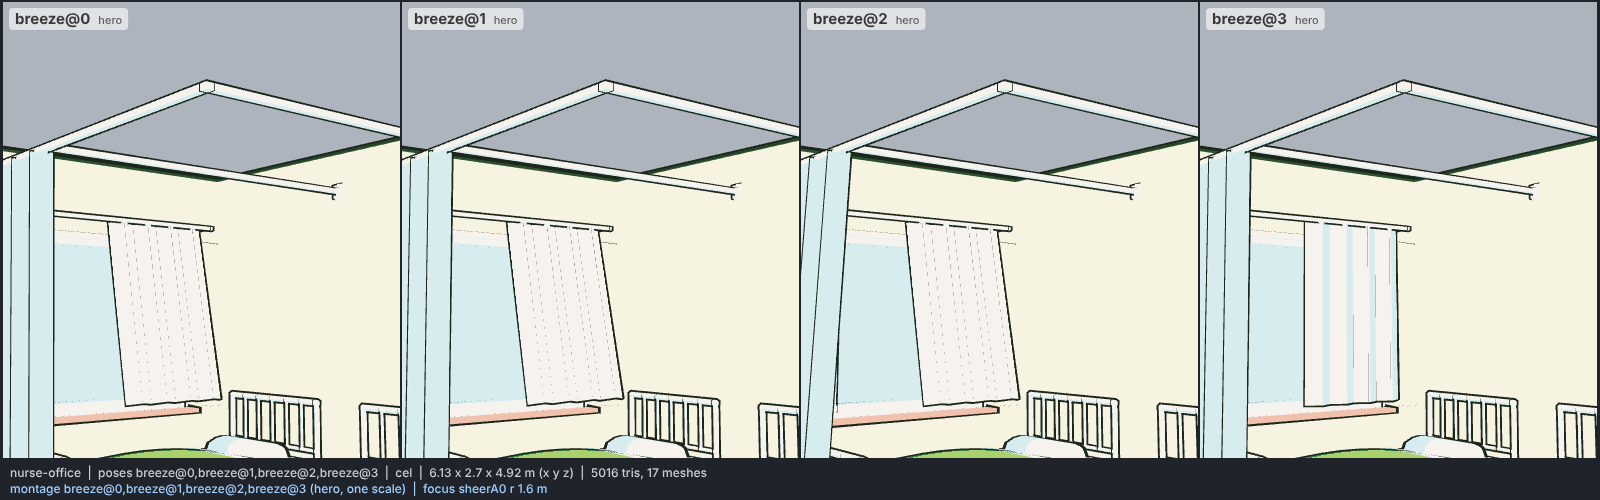
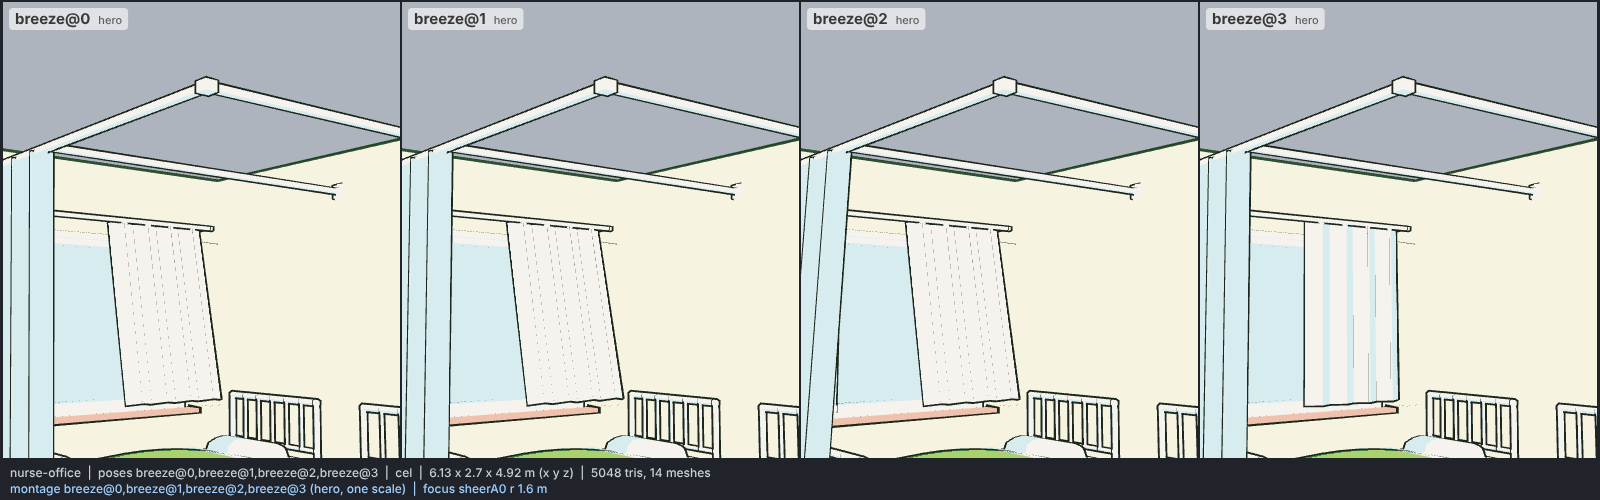
models: nurse-office, 14 meshes, vinyl tile floor, rail elbow
Sheets share steel's signature, glass glints share the grout, wall caps
merge with the dark lines: 14 meshes at defaults, 15 with both curtains
drawn. The floor becomes pale sky vinyl tiles with moon grout, and the
track gets an elbow block where the foot rail turns into the side rail.

Claude-Session: https://claude.ai/code/session_01RarBCdt4E1fNHHaUKaW5GL

diff --git a/models/nurse-office.js b/models/nurse-office.js
@@ -5,7 +5,7 @@
 // Construction (boxes, 4-6 sided rods, pleated lofts, lofted convex sections and flat quads, all triangle soups merged
 // per material; only the curtains are their own meshes, one per sway pivot). Every triangle is wound away from a point
 // inside its solid (box centre, rod axis, loft column, section centre), never by hand.
-//   SHELL     floor quad with lighter board seams; two walls 12 cm thick, the -X wall cut into sill wall, piers and lintel
+//   SHELL     floor quad of pale 0.4 m vinyl tiles with moon grout; two walls 12 cm thick, the -X wall cut into sill wall, piers and lintel
 //             round one window; dark skirting; dark 2 cm section caps on the cut wall tops, so the cut reads as a cut.
 //   WINDOW    (-X) aluminium casing, two sashes on two tracks, the room-side one slid open 0.4 m; glass is two unlined sky
 //             plates back to back. A sheer curtain on a wall-bracketed rail: one panel drawn over the open gap, one bunched.
@@ -34,11 +34,11 @@
 //   curtains sway on their rails, all harmonics of 4 s so it loops. Signs: the sheer pivots on its rail (axis z), +rz
 //   swings its hem into the room (+X); a foot-rail curtain (axis x) +rx swings its hem to -Z; a side-rail curtain (axis
 //   z) +rz swings its hem to +X. Rest is all zero.
-// Budget: ~5.0k triangles (5.3k with the curtains fully drawn), 17-18 meshes (13 material groups + one per curtain run).
-// Ink in pixels: walls, beds, furniture 3; rods, curtains, small props 2 (a room is seen small).
+// Budget: ~5.1k triangles (5.4k with the curtains fully drawn), 14-15 meshes (10 material groups + one per curtain run).
+// Ink in pixels: walls, wood, furniture 3; rods, sheets, curtains, small props 2 (a room is seen small).
 // Colours (meadow), base / shade:
 //   walls, cabinet and desk carcass  moon #f7f3e1 / skin #f0c2ae, threshold 0.1
-//   floor, wood (stadiometer, desk top, sill)  skin #f0c2ae flat / moon seams; wood skin / practical #f2c94c
+//   floor sky #d7ecef flat, grout and glass glints moon #f7f3e1; wood (stadiometer, desk top, sill) skin / practical #f2c94c
 //   steel (bed pipes, sashes, track, chair, scale, sink)  sclera #f6f3ee / sky #d7ecef
 //   sheets, pillows, eye chart, posters  sclera #f6f3ee / sky #d7ecef
 //   bed curtains and sheer  sky #d7ecef / sclera #f6f3ee (sheer sclera / sky), folds at threshold 0.45
@@ -52,7 +52,7 @@ export const meta = {
   script: "meadow",
   colors: {
     wall: "#f7f3e1", wallShade: "#f0c2ae",
-    floor: "#f0c2ae", seam: "#f7f3e1",
+    floor: "#d7ecef", seam: "#f7f3e1",
     wood: "#f0c2ae", woodShade: "#f2c94c",
     steel: "#f6f3ee", steelShade: "#d7ecef",
     sheet: "#f6f3ee", sheetShade: "#d7ecef",
@@ -201,9 +201,13 @@ export function build(THREE, kit, colors = meta.colors, opts = {}) {
   // ---------- the shell ----------
   const W = 3.0, L = 2.4, H = 2.7, T = 0.12, CAP = 0.02;
   quad("floor", [-W, 0, -L], [W, 0, -L], [W, 0, L], [-W, 0, L], [0, -1, 0]);
-  for (let i = 1; i < 16; i++) { // board seams across the room
-    const z = -L + (i * 2 * L) / 16;
+  for (let i = 1; i < 12; i++) { // 0.4 m vinyl tiles: grout lines both ways
+    const z = -L + i * 0.4;
     quad("seam", [-W, 0.0015, z - 0.006], [W, 0.0015, z - 0.006], [W, 0.0015, z + 0.006], [-W, 0.0015, z + 0.006], [0, -1, z]);
+  }
+  for (let i = 1; i < 15; i++) {
+    const x = -W + i * 0.4;
+    quad("seam", [x - 0.006, 0.0016, -L], [x + 0.006, 0.0016, -L], [x + 0.006, 0.0016, L], [x - 0.006, 0.0016, L], [x, -1, 0]);
   }
   const SILL = 0.85, HEAD = 2.15, WZ0 = -2.05, WZ1 = -0.35;
   const wx0 = -W - T, wx1 = -W;
@@ -295,6 +299,7 @@ export function build(THREE, kit, colors = meta.colors, opts = {}) {
   box("steel", SX - TW, SX + TW, TY, TY + TH, -L, FZ + TW); // side rail, back to the -Z wall
   box("steel", DX - TW, DX + TW, TY, TY + TH, -L, FZ - TW); // divider between the beds
   box("steel", -W, -W + 0.012, TY - 0.03, TY + TH + 0.03, FZ - 0.04, FZ + 0.04); // wall plates
+  box("steel", SX - 0.03, SX + 0.03, TY - 0.008, TY + TH + 0.008, FZ - 0.03, FZ + 0.03); // elbow: foot rail into side rail
   for (const x of [SX, DX]) box("steel", x - 0.04, x + 0.04, TY - 0.03, TY + TH + 0.03, -L, -L + 0.012);
   const CY0 = 0.32, CY1 = TY + 0.01;
   curtain("bedA", [[DX - 0.03, 0, FZ], [-W + 0.03, 0, FZ]], draw * (DX - -W), CY0, CY1, "curtain");
@@ -529,16 +534,16 @@ export function build(THREE, kit, colors = meta.colors, opts = {}) {
   // ---------- meshes: one per material signature; curtains one per pivot ----------
   const MAT = {
     wall: [c.wall, c.wallShade, 0.1, 3],
-    cap: [c.dark, c.dark, 0.1, 3],
+    cap: [c.dark, c.dark, 0.1, 0], // the walls' hull outlines the caps; merges with dark
     floor: [c.floor, c.floor, 0.1, 3],
     seam: [c.seam, c.seam, 0.1, 0],
     wood: [c.wood, c.woodShade, 0.1, 3],
     steel: [c.steel, c.steelShade, 0.1, 2],
-    sheet: [c.sheet, c.sheetShade, 0.1, 3],
+    sheet: [c.sheet, c.sheetShade, 0.1, 2], // same signature as steel: one mesh
     green: [c.green, c.greenShade, 0.1, 2],
     screen: [c.green, c.greenShade, 0.1, 2],
     glass: [c.glass, c.glass, 0.1, 0],
-    glint: [c.sheet, c.sheet, 0.1, 0],
+    glint: [c.seam, c.seam, 0.1, 0], // merges with the floor grout
     dark: [c.dark, c.dark, 0.1, 0],
     red: [c.red, c.red, 0.1, 2],
     yellow: [c.yellow, c.yellow, 0.1, 2],
